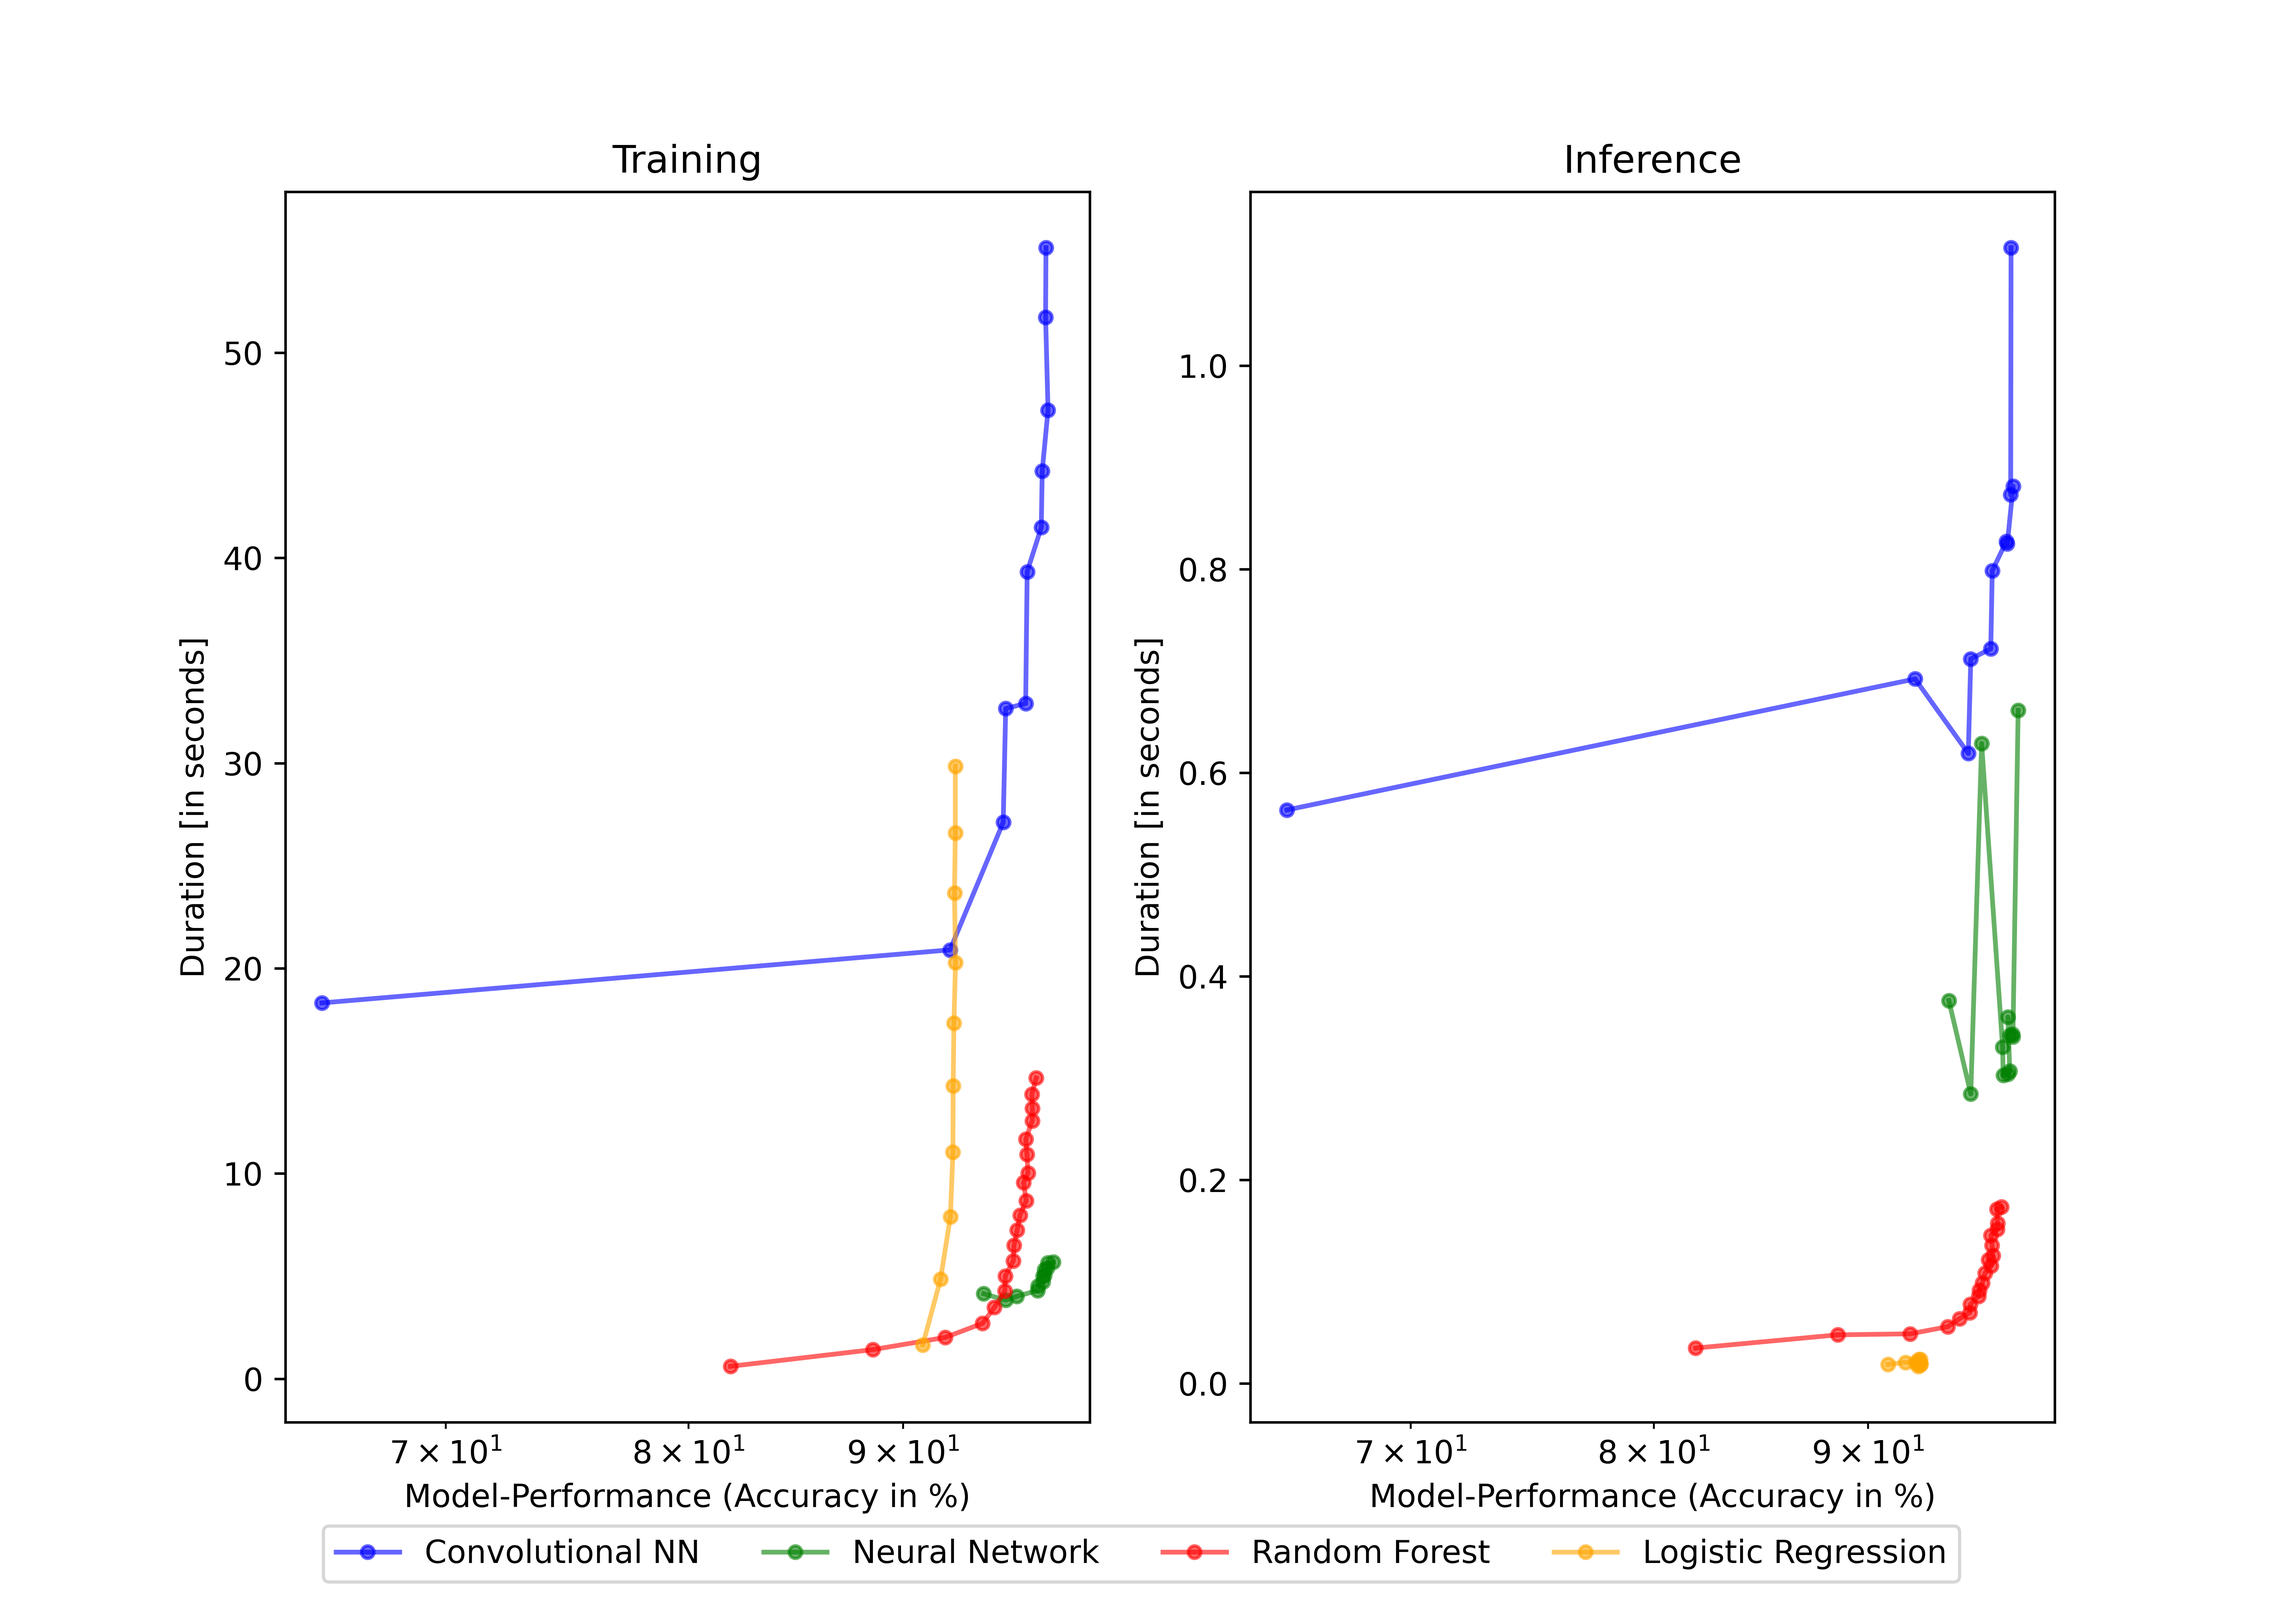
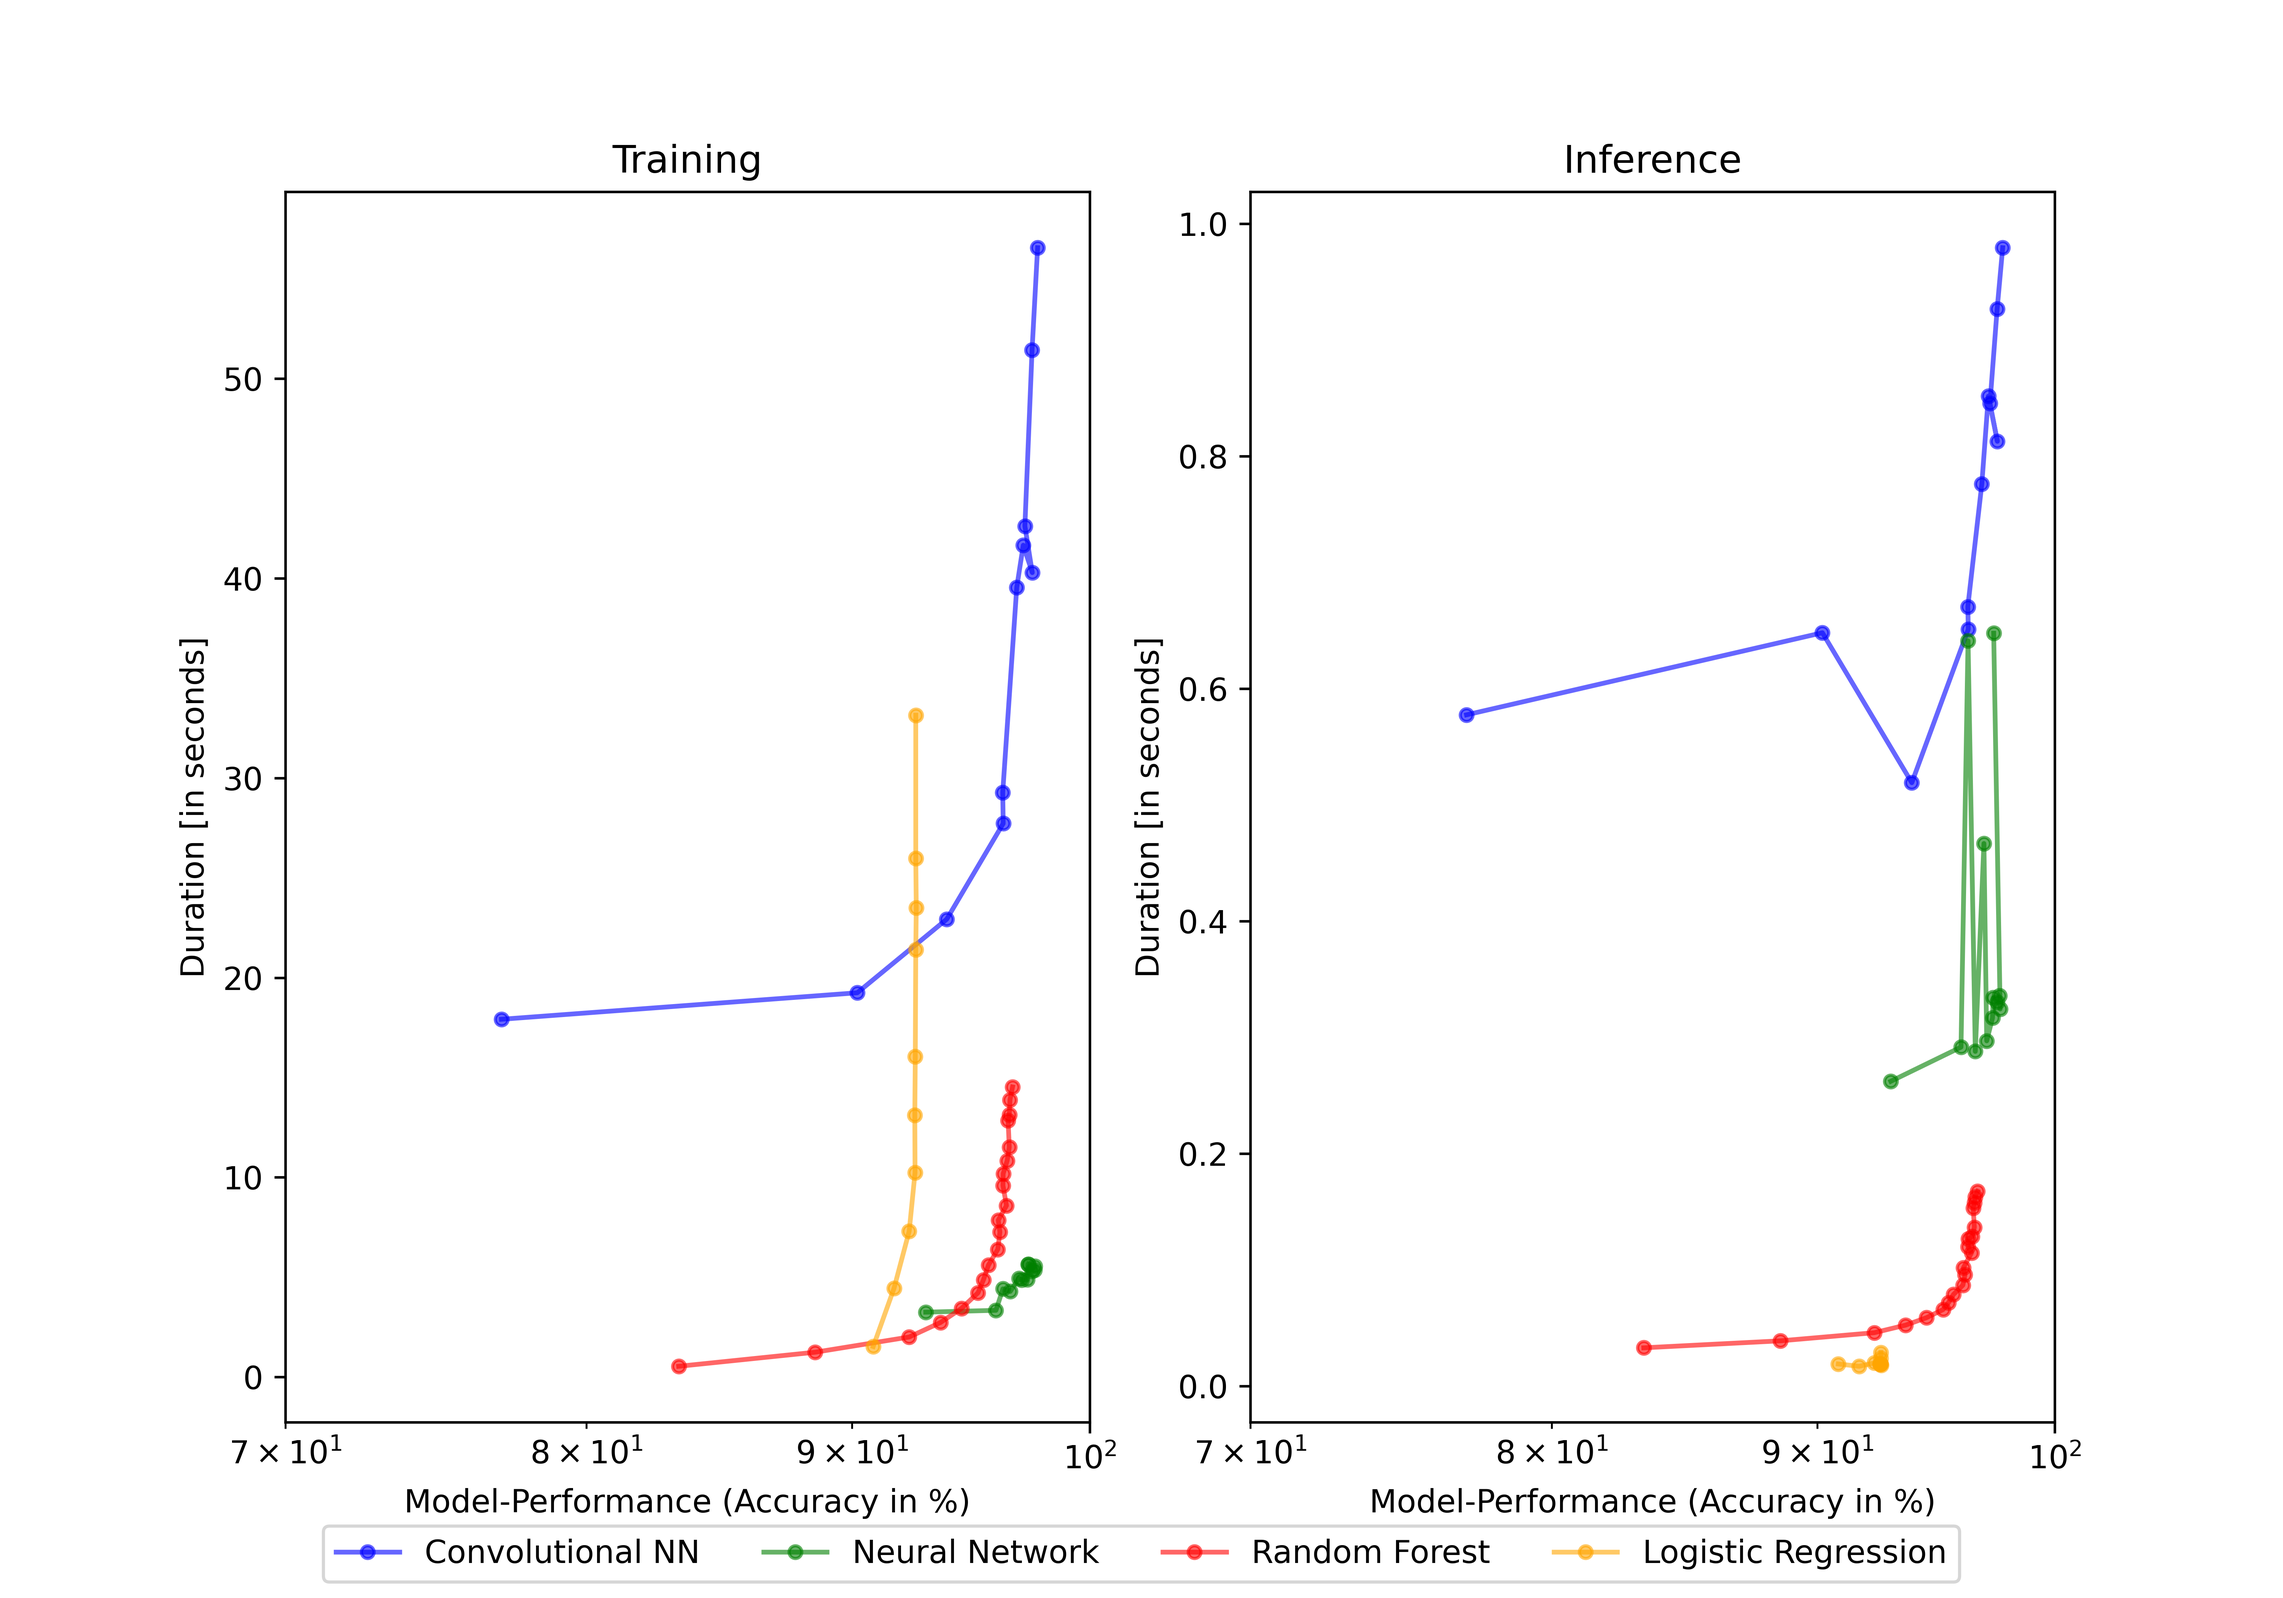
windows

diff --git a/main.py b/main.py
@@ -156,6 +156,8 @@ def main():
     ax2.set_ylabel('Duration [in seconds]', fontsize=10)
     ax1.set_xscale('log')
     ax2.set_xscale('log')
+    ax1.set_xlim([70, 100])
+    ax2.set_xlim([70, 100])
     ax1.plot(ConvNN_test_df["accuracy"], ConvNN_training_df["duration"], '-o', c='blue', alpha=0.6, markersize=4)
     ax2.plot(ConvNN_test_df["accuracy"], ConvNN_test_df["duration"], '-o', c='blue', alpha=0.6, markersize=4)
     ax1.plot(NeuralNetwork_test_df["accuracy"], NeuralNetwork_training_df["duration"], '-o', c='green', alpha=0.6, markersize=4)
@@ -173,7 +175,7 @@ def main():
     print("Evaluation Plot saved...")
     print("")
 
-    plt.figure(figsize=(600 * px, 400 * px))
+    plt.figure(figsize=(650 * px, 400 * px))
     plt.plot(ConvNN_training_df["accuracy"], ConvNN_training_df["parameter"], '-o', c='blue', alpha=0.6)
     plt.plot(NeuralNetwork_training_df["accuracy"], NeuralNetwork_training_df["parameter"], '-o', c='green', alpha=0.6)
     plt.xlabel('Accuracy [in %]', fontsize=10)
